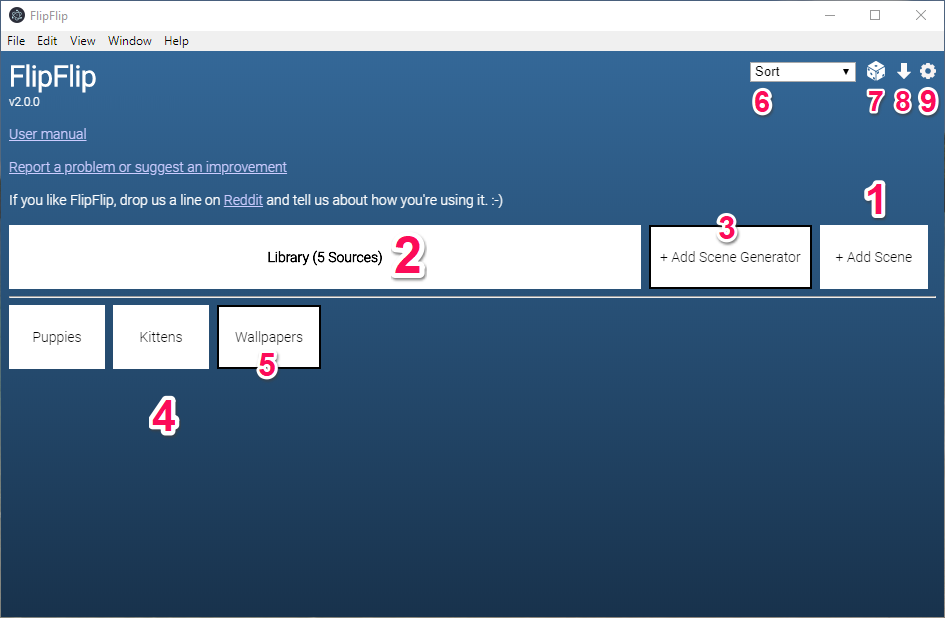
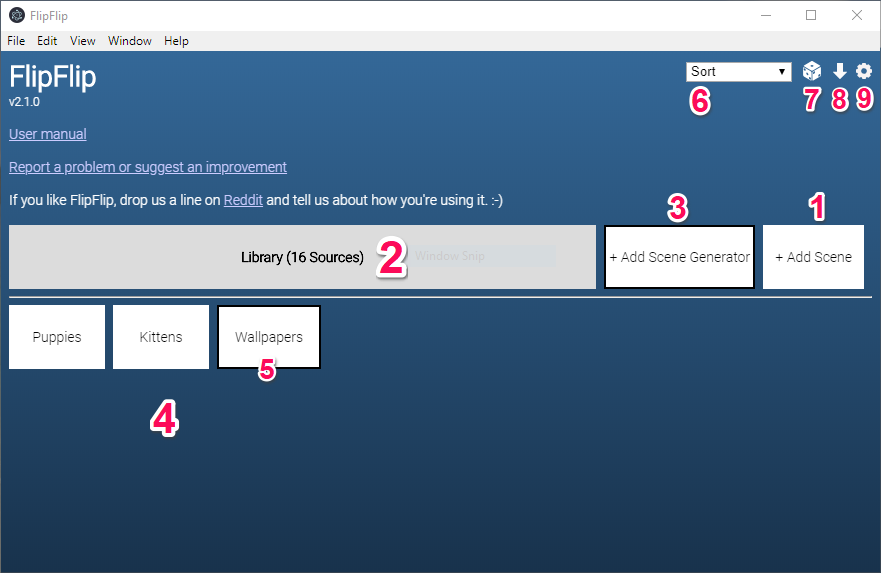
Update screenshots, Prepare for v2.1.0 Release

diff --git a/Readme.md b/Readme.md
@@ -71,7 +71,7 @@ on the project to make changes as you wish. :-)
   
 ## History
 
-### 2.1.0 (Upcoming)
+### 2.1.0
 - Major performance improvements
 - Allow scenes to transition into other scenes
 - Allow scenes to be started as soon as the first image loads
